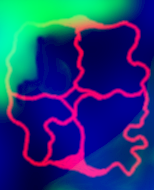
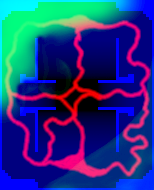
Improves map

diff --git a/game/src/map_loader.c b/game/src/map_loader.c
@@ -136,14 +136,14 @@ void maploader_load(char const * fileName)
 
     collision_mode = 0;
 
-    you = ent_createterrain(
-        bmp,
-        vector(0, 0, 0),
-        2,
-        2,
-        size_x * maploader_trisize
-    );
-    you.material = maploader_water_material;
+//    you = ent_createterrain(
+//        bmp,
+//        vector(0, 0, 0),
+//        2,
+//        2,
+//        size_x * maploader_trisize
+//    );
+//    you.material = maploader_water_material;
 
     maploader.terrain = ent_createterrain(
         bmp,
